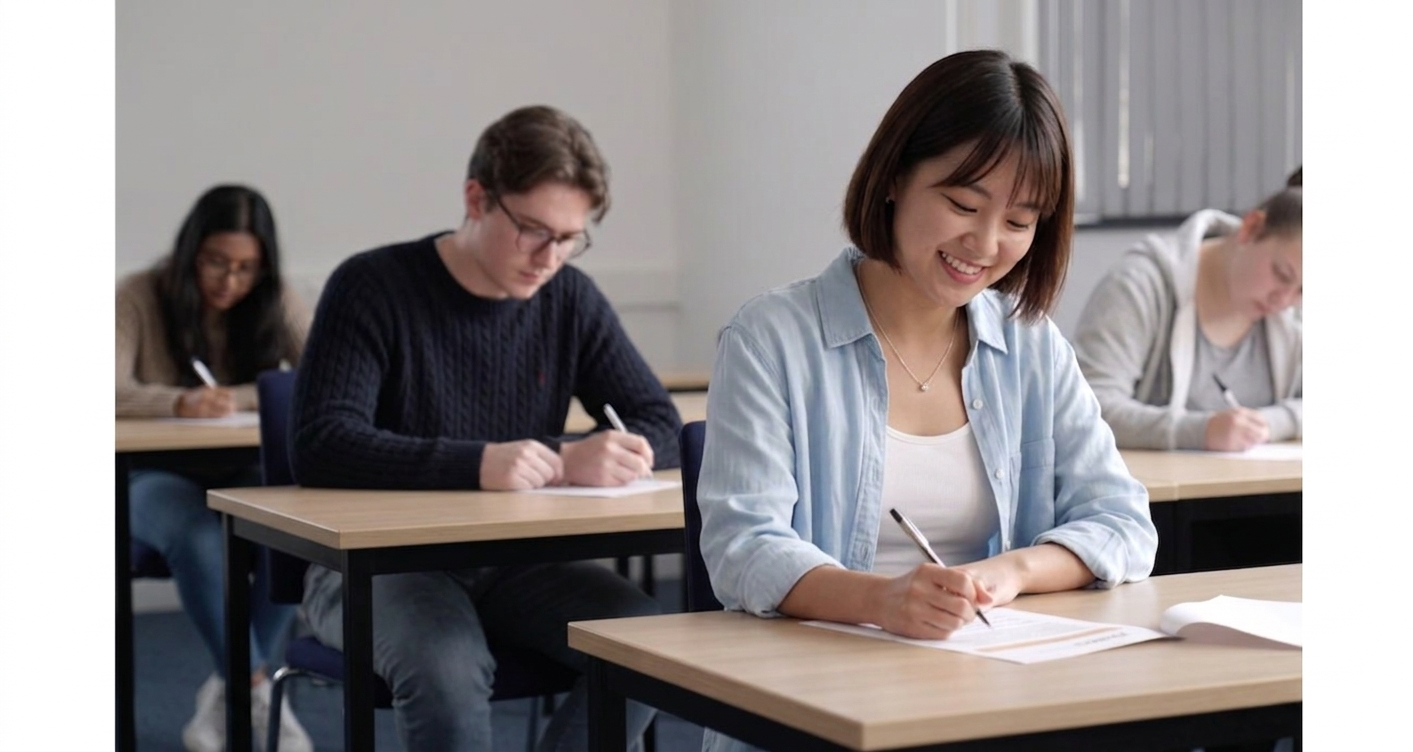
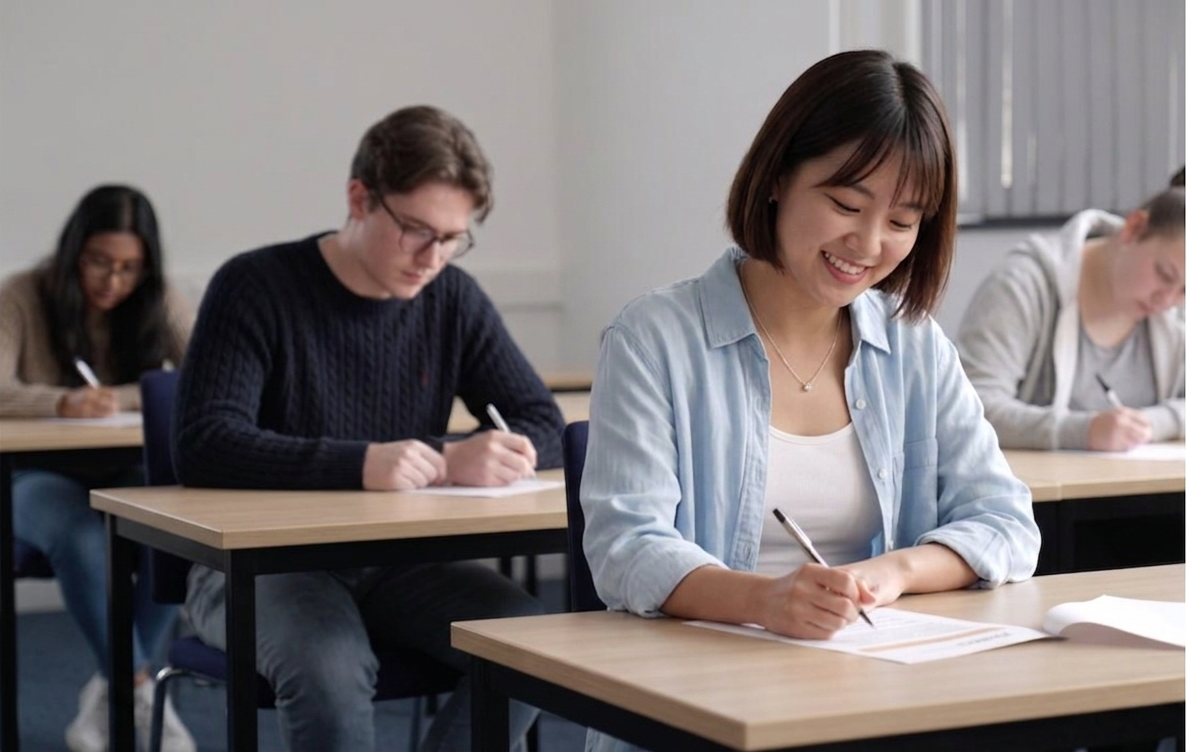
commit 2

diff --git a/css/style.css b/css/style.css
@@ -83,6 +83,7 @@ img {
 }
 
 /* Carousel Bild */
+/* Carousel */
 #mainCarousel {
   width: 70%;
   margin: 20px auto;
@@ -126,17 +127,6 @@ img {
   text-decoration: underline;
 }
 
-@media (max-width: 768px) {
-  .carousel-text-box {
-    width: 40%;
-    padding: 6px 8px;
-  }
-
-  .carousel-text-box p {
-    display: none;
-  }
-}
-
 .carousel-control-prev,
 .carousel-control-next {
   background-color: rgba(0, 0, 0, 0.3);
@@ -150,4 +140,36 @@ img {
 .carousel-control-prev-icon,
 .carousel-control-next-icon {
   filter: invert(0);
+}
+
+/* Handy */
+@media (max-width: 768px) {
+  #mainCarousel {
+    width: 100%;
+    margin: 0;
+  }
+  .carousel-item img {
+    width: 100%;
+    height: 250px;
+    object-fit: cover;
+    display: block;
+  }
+
+  .carousel-text-box {
+    position: absolute;
+    width: 100%;
+    bottom: 0;
+    left: 0;
+    padding: 10px 12px;
+    background-color: rgba(15, 20, 35, 0.7);
+  }
+
+  .carousel-text-box h5 {
+    font-size: 0.85rem;
+    margin-bottom: 4px;
+  }
+
+  .carousel-text-box a {
+    font-size: 0.75rem;
+  }
 }
